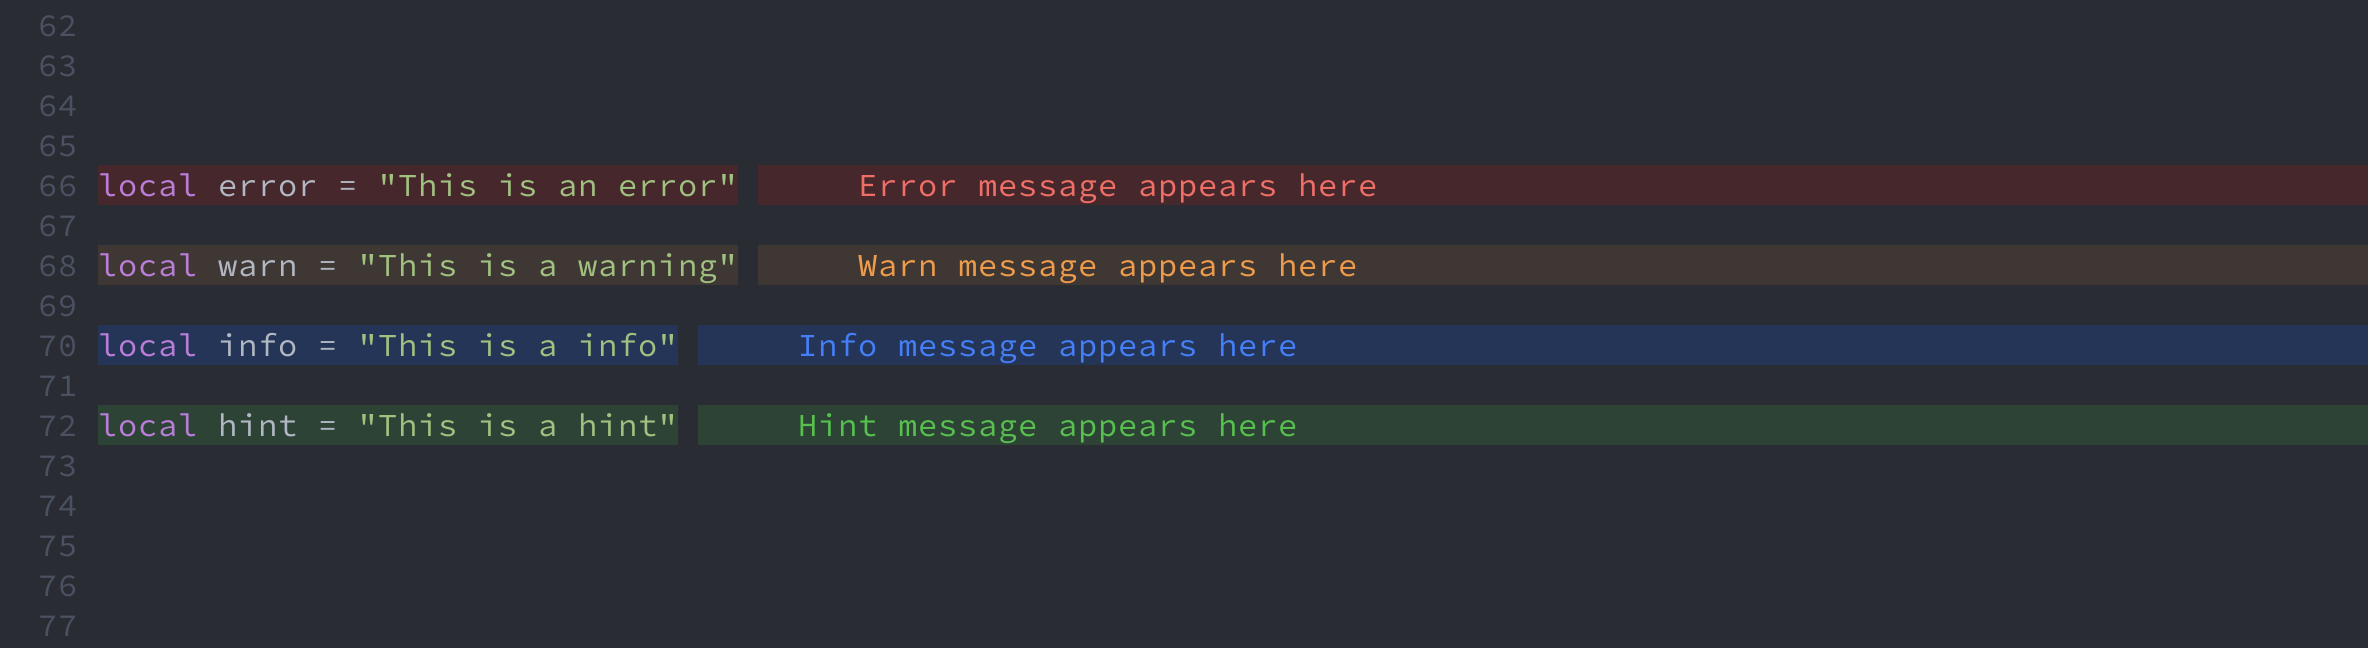
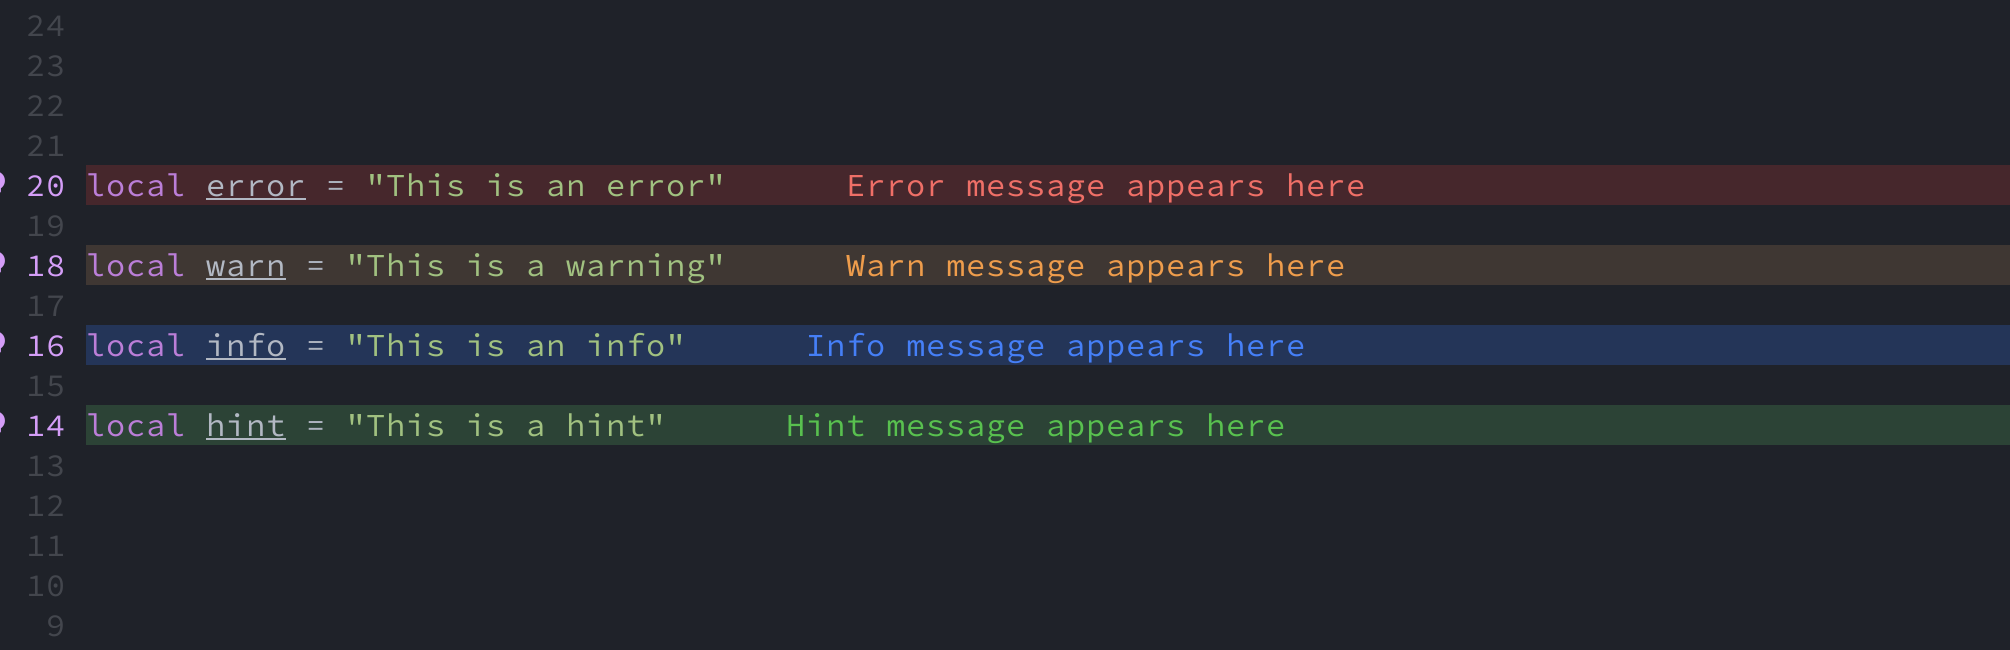
feat: Toggleable error lens, improved highlighting

diff --git a/README.md b/README.md
@@ -12,11 +12,12 @@ An enhanced visual diagnostic display for Neovim, inspired by the [Error Lens ex
 - Customizable colors and appearance
 - Auto-adjust colors based on the theme color
 - Easy setup with all package managers
+- Togglable
 - Heavily inspired by the Error Lens plugin for Visual Studio Code
 
 ## 🚧 Roadmap
 
-- [ ] Togglable hints
+- [x] Togglable hints
 - [x] Auto adjust colors based on theme
 - [x] Custom colors
 
@@ -52,11 +53,6 @@ require("error-lens").setup(client, {
 }
 ```
 
-
-## ⚠  Caution
-This Plugin overrides ```vim.diagnostic.config({})``` by default, since virtual_text must be disable for proper displaying
-
-
 ## ⚙ Configuration
 
 error-lens.nvim comes with the following default options:
@@ -66,13 +62,13 @@ error-lens.nvim comes with the following default options:
   -- this setting tries to auto adjust the colors 
   -- based on the diagnostic-highlight groups and your 
   -- theme background color with a color blender
+  enabled = true
   auto_adjust = {
     enable = false,
     theme_bg = nil, -- mandatory if enable true (e.g. #281478)
     step = 5, -- inc: colors should be brighter/darker
     total = 30 -- steps of blender
   },
-  disable_vt = true, -- disable vim.diagnostic virtual_text
   prefix = 5, -- distance code <-> diagnostic message
   -- default colors
   colors = {
@@ -90,6 +86,8 @@ error-lens.nvim comes with the following default options:
 
 
 ## 🚀 Usage
+
+To disable/toggle the plugin temporarily, use ```:ErrorLensToggle```
 After installing and configuring the plugin, it will automatically enhance the diagnostic display in Neovim.
 
 

diff --git a/CHANGELOG.md b/CHANGELOG.md
@@ -1,6 +1,18 @@
 ## [1.0.0]
 
 ### Added
+- Toggle with :ErrorLensToggle
+
+### Changed
+- Highlighting function to highlight the full line (Simplified version)
+
+### Removed
+- disable_vt - we disable virtual_text by default an restore the old setting on toggle
+
+
+## [1.0.0]
+
+### Added
 - Added a new setup function without parameters to hook into LSP clients' diagnostics.
 - Implemented a custom diagnostics handler in the setup function to update highlights.
 - The custom diagnostics handler is now attached to Neovim's built-in LSP framework by modifying `vim.lsp.handlers["textDocument/publishDiagnostics"]`.
